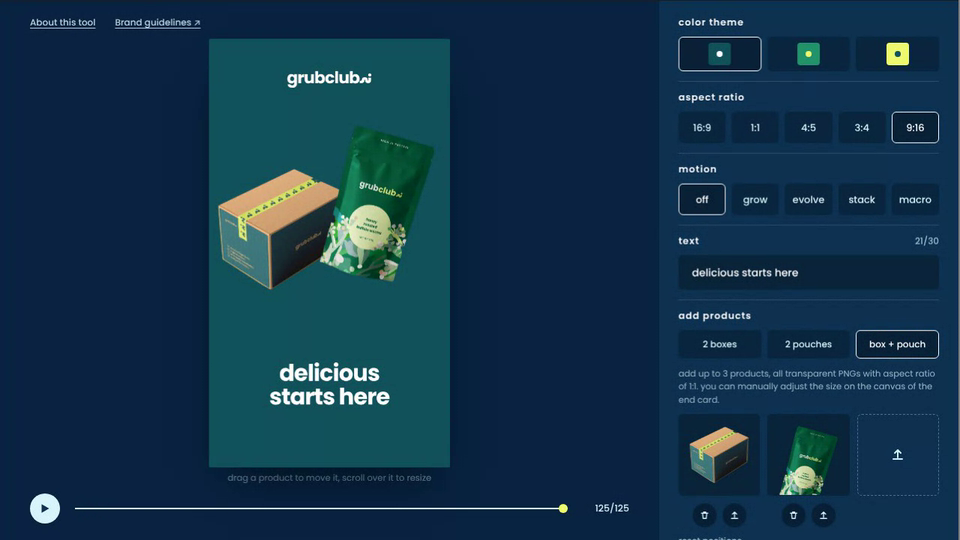
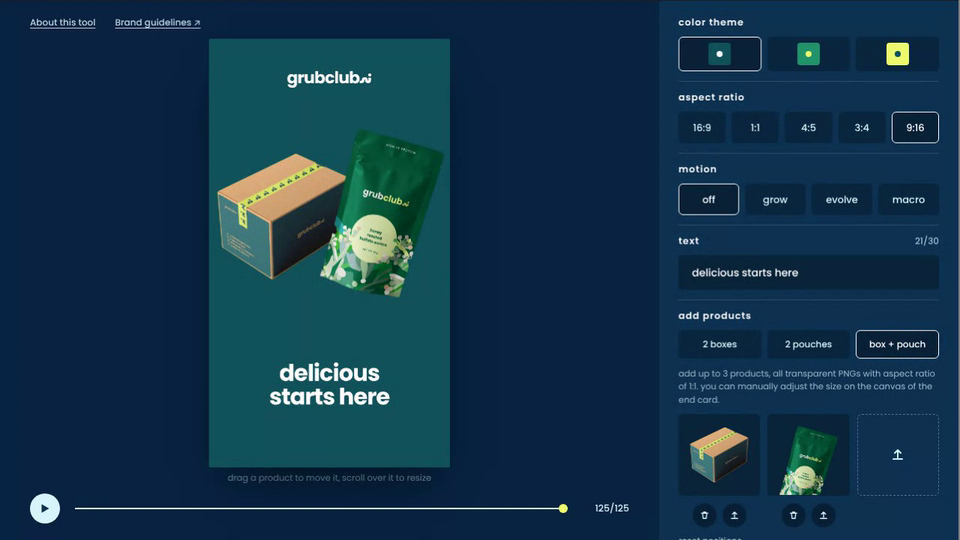
End Card Maker: cleaner box cut-out (full tape end, no lime fringe), box + pouch arranged like the reference (#156)
Claude-Session: https://claude.ai/code/session_01AHeBdyiVvLiqirjg3HPEF

Changed region(s): [[0.2188, 0.237, 0.4688, 0.563], [0.7188, 0.3259, 0.9688, 0.4148]]

diff --git a/grubclub-end-card/index.html b/grubclub-end-card/index.html
@@ -176,7 +176,7 @@ S.prods=[]; S.set=2;
 
 /* ---------------- drawing ---------------- */
 function slots(n){
-  return n===1?[[0,0,1.15]]:n===2&&S.set===1?[[-.2,.2,1],[.22,-.06,1]]:n===2?[[-.3,.12,.8],[.3,-.04,1]]:[[-.42,.14,.74],[.42,.14,.74],[0,-.04,1]];
+  return n===1?[[0,0,1.15]]:n===2&&S.set===1?[[-.2,.2,1],[.22,-.06,1]]:n===2&&S.set===2?[[-.29,.04,.84],[.33,.02,1.08]]:n===2?[[-.3,.12,.8],[.3,-.04,1]]:[[-.42,.14,.74],[.42,.14,.74],[0,-.04,1]];
 }
 let ctx, hits=[];
 function layout(W,H){
